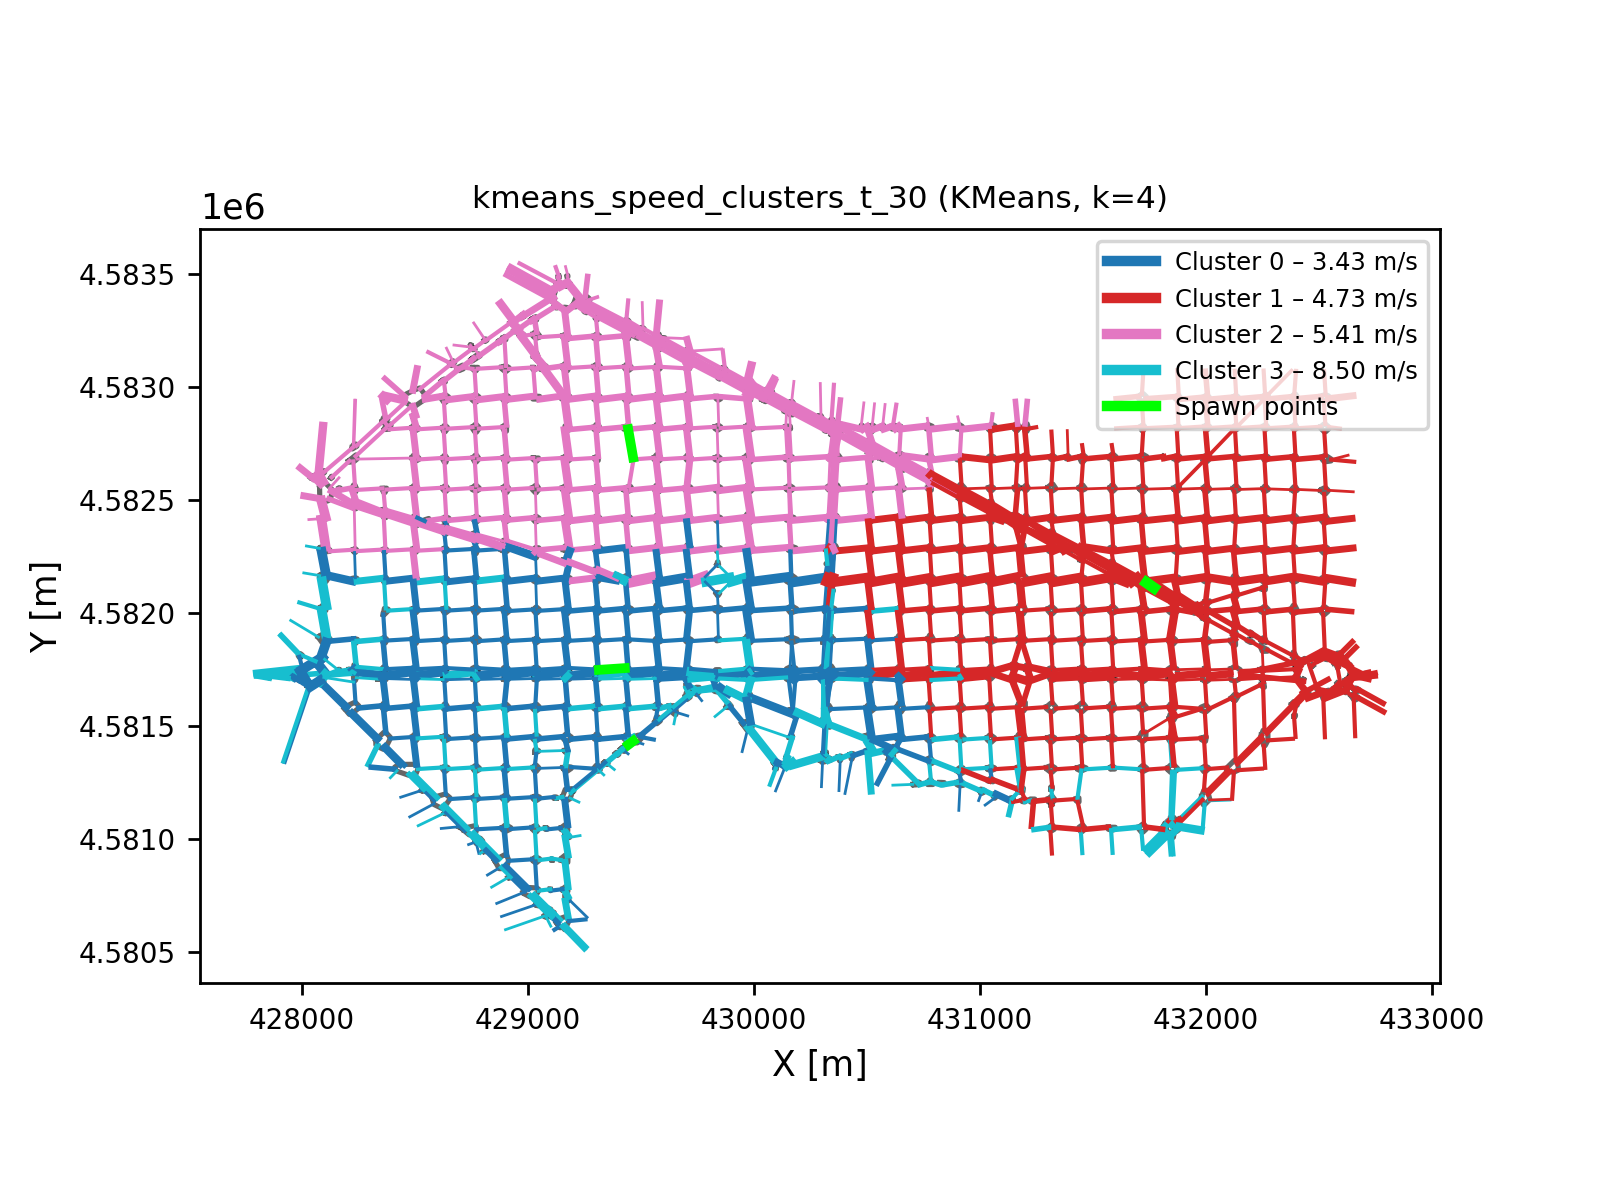
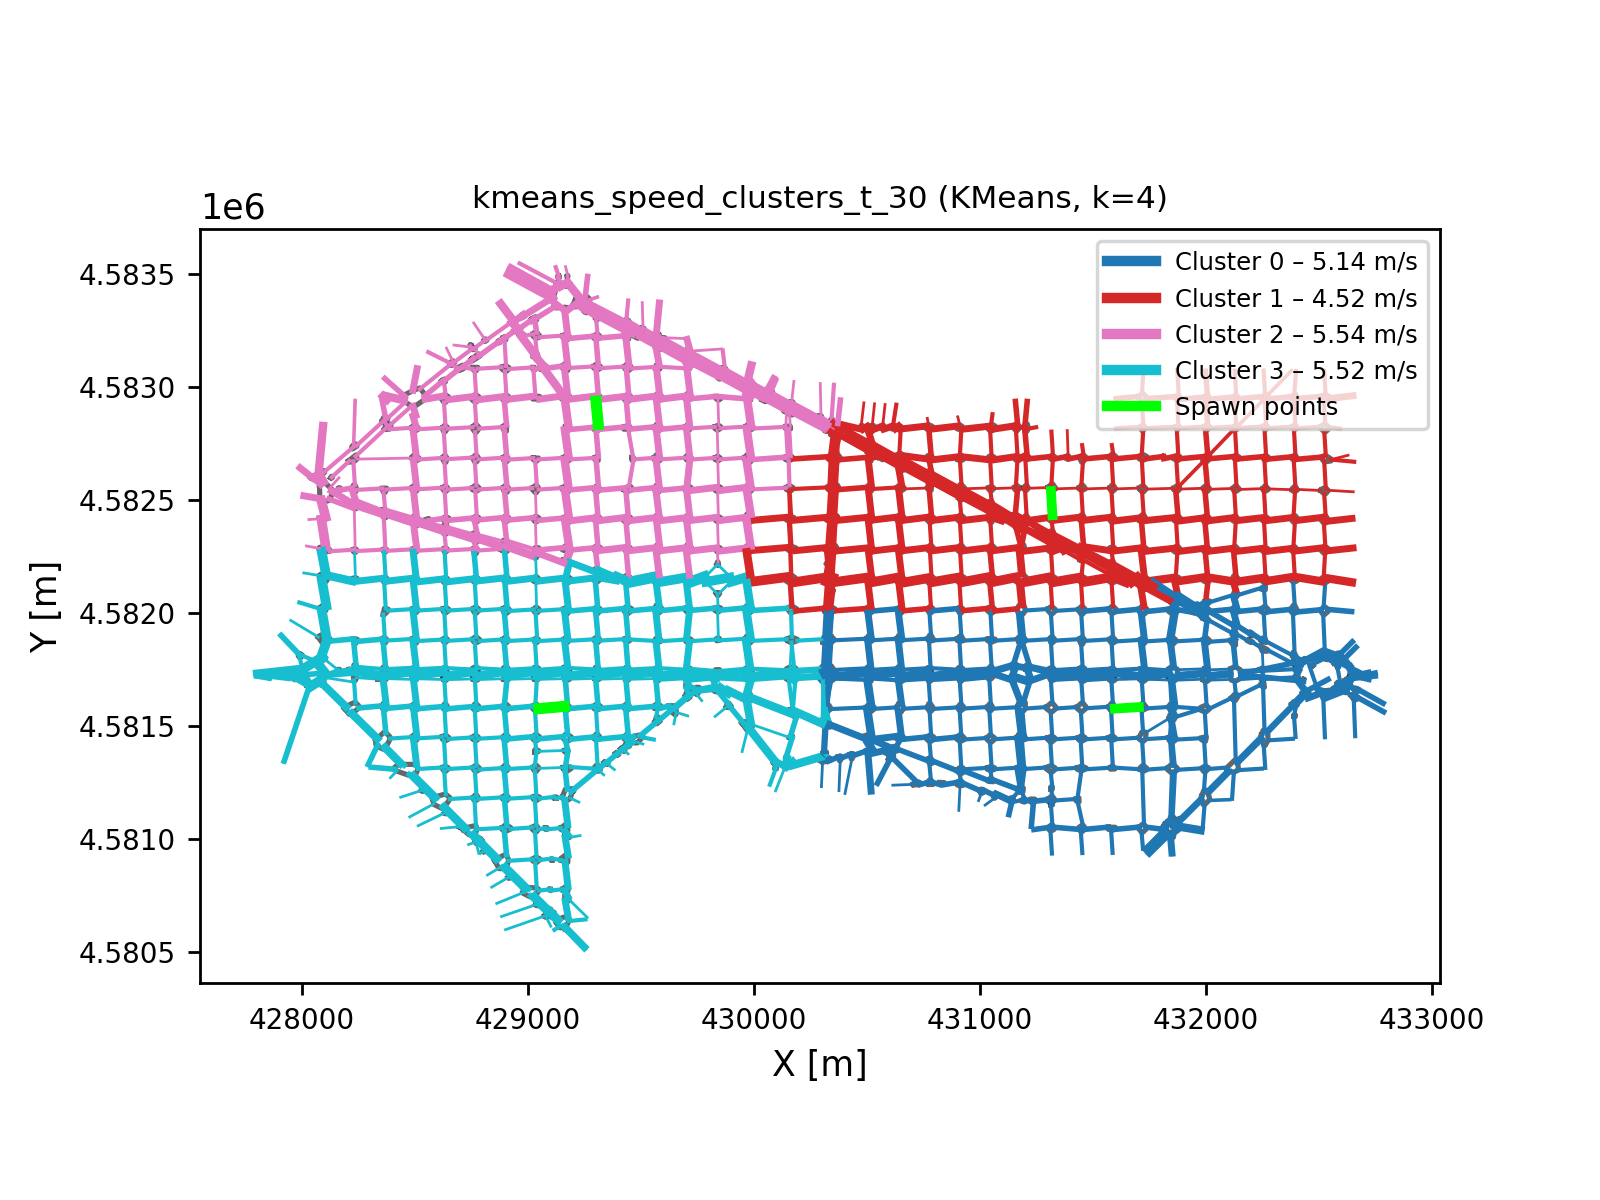
Simpler weight adjustment, comments

diff --git a/main.py b/main.py
@@ -275,7 +275,7 @@ os.makedirs(f"figure/clustering", exist_ok = True)
 
 ############################# KMEANS - WITH VELOCITY / TRAFFIC FEATURES #############################
 
-def kmeans_clustering(n_clusters, name, feature_type, random_state=42, threshold=np.array([]), filter=False, show=True, timeframe=None, init_links = None):
+def kmeans_clustering(n_clusters, name, feature_type, spatial_weight=2.5, dynamic_weight = 1, random_state=42, threshold=np.array([]), filter=False, show=True, timeframe=None, init_links = None):
     """
     KMeans clustering using the same rich traffic feature vectors as the Ward
     method, making it directly comparable with `clustering()`.
@@ -356,7 +356,7 @@ def kmeans_clustering(n_clusters, name, feature_type, random_state=42, threshold
     # while keeping the same temporal feature structure.
     
     one_tf = timeframe is not None
-    X = build_cluster_features(feature_type, timeframe=timeframe if one_tf else 0, threshold=threshold, filter=filter, one_timeframe=one_tf)
+    X = build_cluster_features(feature_type, spatial_weight=2.5, dynamic_weight = 1, timeframe=timeframe if one_tf else 0, threshold=threshold, filter=filter, one_timeframe=one_tf)
 
     if feature_type == "speed" and threshold.size > 0:
             print(f"The low speed and short links are :{threshold}")
@@ -720,7 +720,7 @@ def temporal_cluster_features(profile, peak_mode, spatial_weight=2.5, dynamic_we
     return np.hstack([dynamic_scaled, spatial_scaled])
 
 
-def build_cluster_features(feature_type, timeframe, threshold=np.array([]), filter=False, one_timeframe = False):
+def build_cluster_features(feature_type, timeframe, spatial_weight=2.5, dynamic_weight = 1, threshold=np.array([]), filter=False, one_timeframe = False):
     """
     Build feature matrices for clustering based on different traffic descriptors.
 
@@ -791,12 +791,9 @@ def build_cluster_features(feature_type, timeframe, threshold=np.array([]), filt
             #  normalize 
             X = StandardScaler().fit_transform(X)
 
-            #  WEGHTS 
-            w_speed = 1.5
-            w_spatial = 2.0
 
-            X[:, 0] *= w_speed
-            X[:, 1:] *= w_spatial
+            X[:, 0] *= dynamic_weight
+            X[:, 1:] *= spatial_weight
 
             return X
 
@@ -1419,8 +1416,16 @@ def grid_clust(xdiv = 4, ydiv = 4, percentile = 65):
 
 
 def closest_link(x, y):
-
+    """
+    Returns the id of the closest link to the two coordinates given.
+    Uses L2 norm AKA Euclidean distance
     
+    Parameters
+    ----------
+    x : int - x coordinates
+    y : int - y coordinates
+    """
+
     coords = np.column_stack([links["c_x"].to_numpy(), links["c_y"].to_numpy()])
     
     point = np.array([x, y])
@@ -1523,17 +1528,17 @@ cluster_amount = list(range(2,8,1))
 
 for i in cluster_amount:
     kmeans_clustering(i, "kmeans_speed_clusters", "speed")
-    kmeans_clustering(i, "kmeans_speed_clusters_t_10", "speed", timeframe=10)
-    kmeans_clustering(i, "kmeans_speed_clusters_t_30", "speed", timeframe=30)
+    kmeans_clustering(i, "kmeans_speed_clusters_t_10", "speed", dynamic_weight = 1.5, spatial_weight = 2.0, timeframe=10)
+    kmeans_clustering(i, "kmeans_speed_clusters_t_30", "speed", dynamic_weight = 1.5, spatial_weight = 2.0, timeframe=30)
 
-kmeans_clustering(5, "kmeans_speed_clusters_t_10_set_spawn", "speed", timeframe=10, init_links=init_links_1)
-kmeans_clustering(len(init_links_2), "kmeans_speed_clusters_t_10_set_spawn", "speed",  timeframe=10, init_links=init_links_2)
-kmeans_clustering(len(init_links_3), "kmeans_speed_clusters_t_10_set_spawn", "speed",  timeframe=10, init_links=init_links_3)
+kmeans_clustering(5, "kmeans_speed_clusters_t_10_set_spawn", "speed", dynamic_weight = 1.5, spatial_weight = 2.0, timeframe=10, init_links=init_links_1)
+kmeans_clustering(len(init_links_2), "kmeans_speed_clusters_t_10_set_spawn", "speed",  dynamic_weight = 1.5, spatial_weight = 2.0, timeframe=10, init_links=init_links_2)
+kmeans_clustering(len(init_links_3), "kmeans_speed_clusters_t_10_set_spawn", "speed",  dynamic_weight = 1.5, spatial_weight = 2.0, timeframe=10, init_links=init_links_3)
 
 
-kmeans_clustering(len(init_links_1), "kmeans_speed_clusters_t_30_set_spawn", "speed", timeframe=30, init_links=init_links_1)
-kmeans_clustering(len(init_links_2), "kmeans_speed_clusters_t_30_set_spawn", "speed", timeframe=30, init_links=init_links_2)
-kmeans_clustering(len(init_links_3), "kmeans_speed_clusters_t_30_set_spawn", "speed", timeframe=30, init_links=init_links_3)
+kmeans_clustering(len(init_links_1), "kmeans_speed_clusters_t_30_set_spawn", "speed", dynamic_weight = 1.5, spatial_weight = 2.0, timeframe=30, init_links=init_links_1)
+kmeans_clustering(len(init_links_2), "kmeans_speed_clusters_t_30_set_spawn", "speed", dynamic_weight = 1.5, spatial_weight = 2.0, timeframe=30, init_links=init_links_2)
+kmeans_clustering(len(init_links_3), "kmeans_speed_clusters_t_30_set_spawn", "speed", dynamic_weight = 1.5, spatial_weight = 2.0, timeframe=30, init_links=init_links_3)
 
 
 
@@ -1544,11 +1549,23 @@ main_roads1 = [
     closest_link(430280, 4582250) 
     ]
 
-kmeans_clustering(len(main_roads1), "kmeans_speed_clusters_t_30_set_spawn", "speed", timeframe=30, init_links=main_roads1)
+kmeans_clustering(len(main_roads1), "kmeans_speed_clusters_t_30_set_spawn", "speed", dynamic_weight = 1.5, spatial_weight = 2.0, timeframe=30, init_links=main_roads1)
 
 main_roads2 = [
     closest_link(429250, 4581750),
     closest_link(431250, 4582350)
 ]
 
-kmeans_clustering(len(main_roads2), "kmeans_speed_clusters_t_30_set_spawn", "speed", timeframe=30, init_links=main_roads2)
+kmeans_clustering(len(main_roads2), "kmeans_speed_clusters_t_30_set_spawn", "speed", dynamic_weight = 1.5, spatial_weight = 2.0, timeframe=30, init_links=main_roads2)
+
+
+
+#  WEIGHTS 
+
+# UNIQUE TIMEFRAME
+# dynamic_weight = 1.0
+# spatial_weight = 2.5
+
+# UNIQUE TIMEFRAME
+# dynamic_weight = 1.5
+# spatial_weight = 2.0
